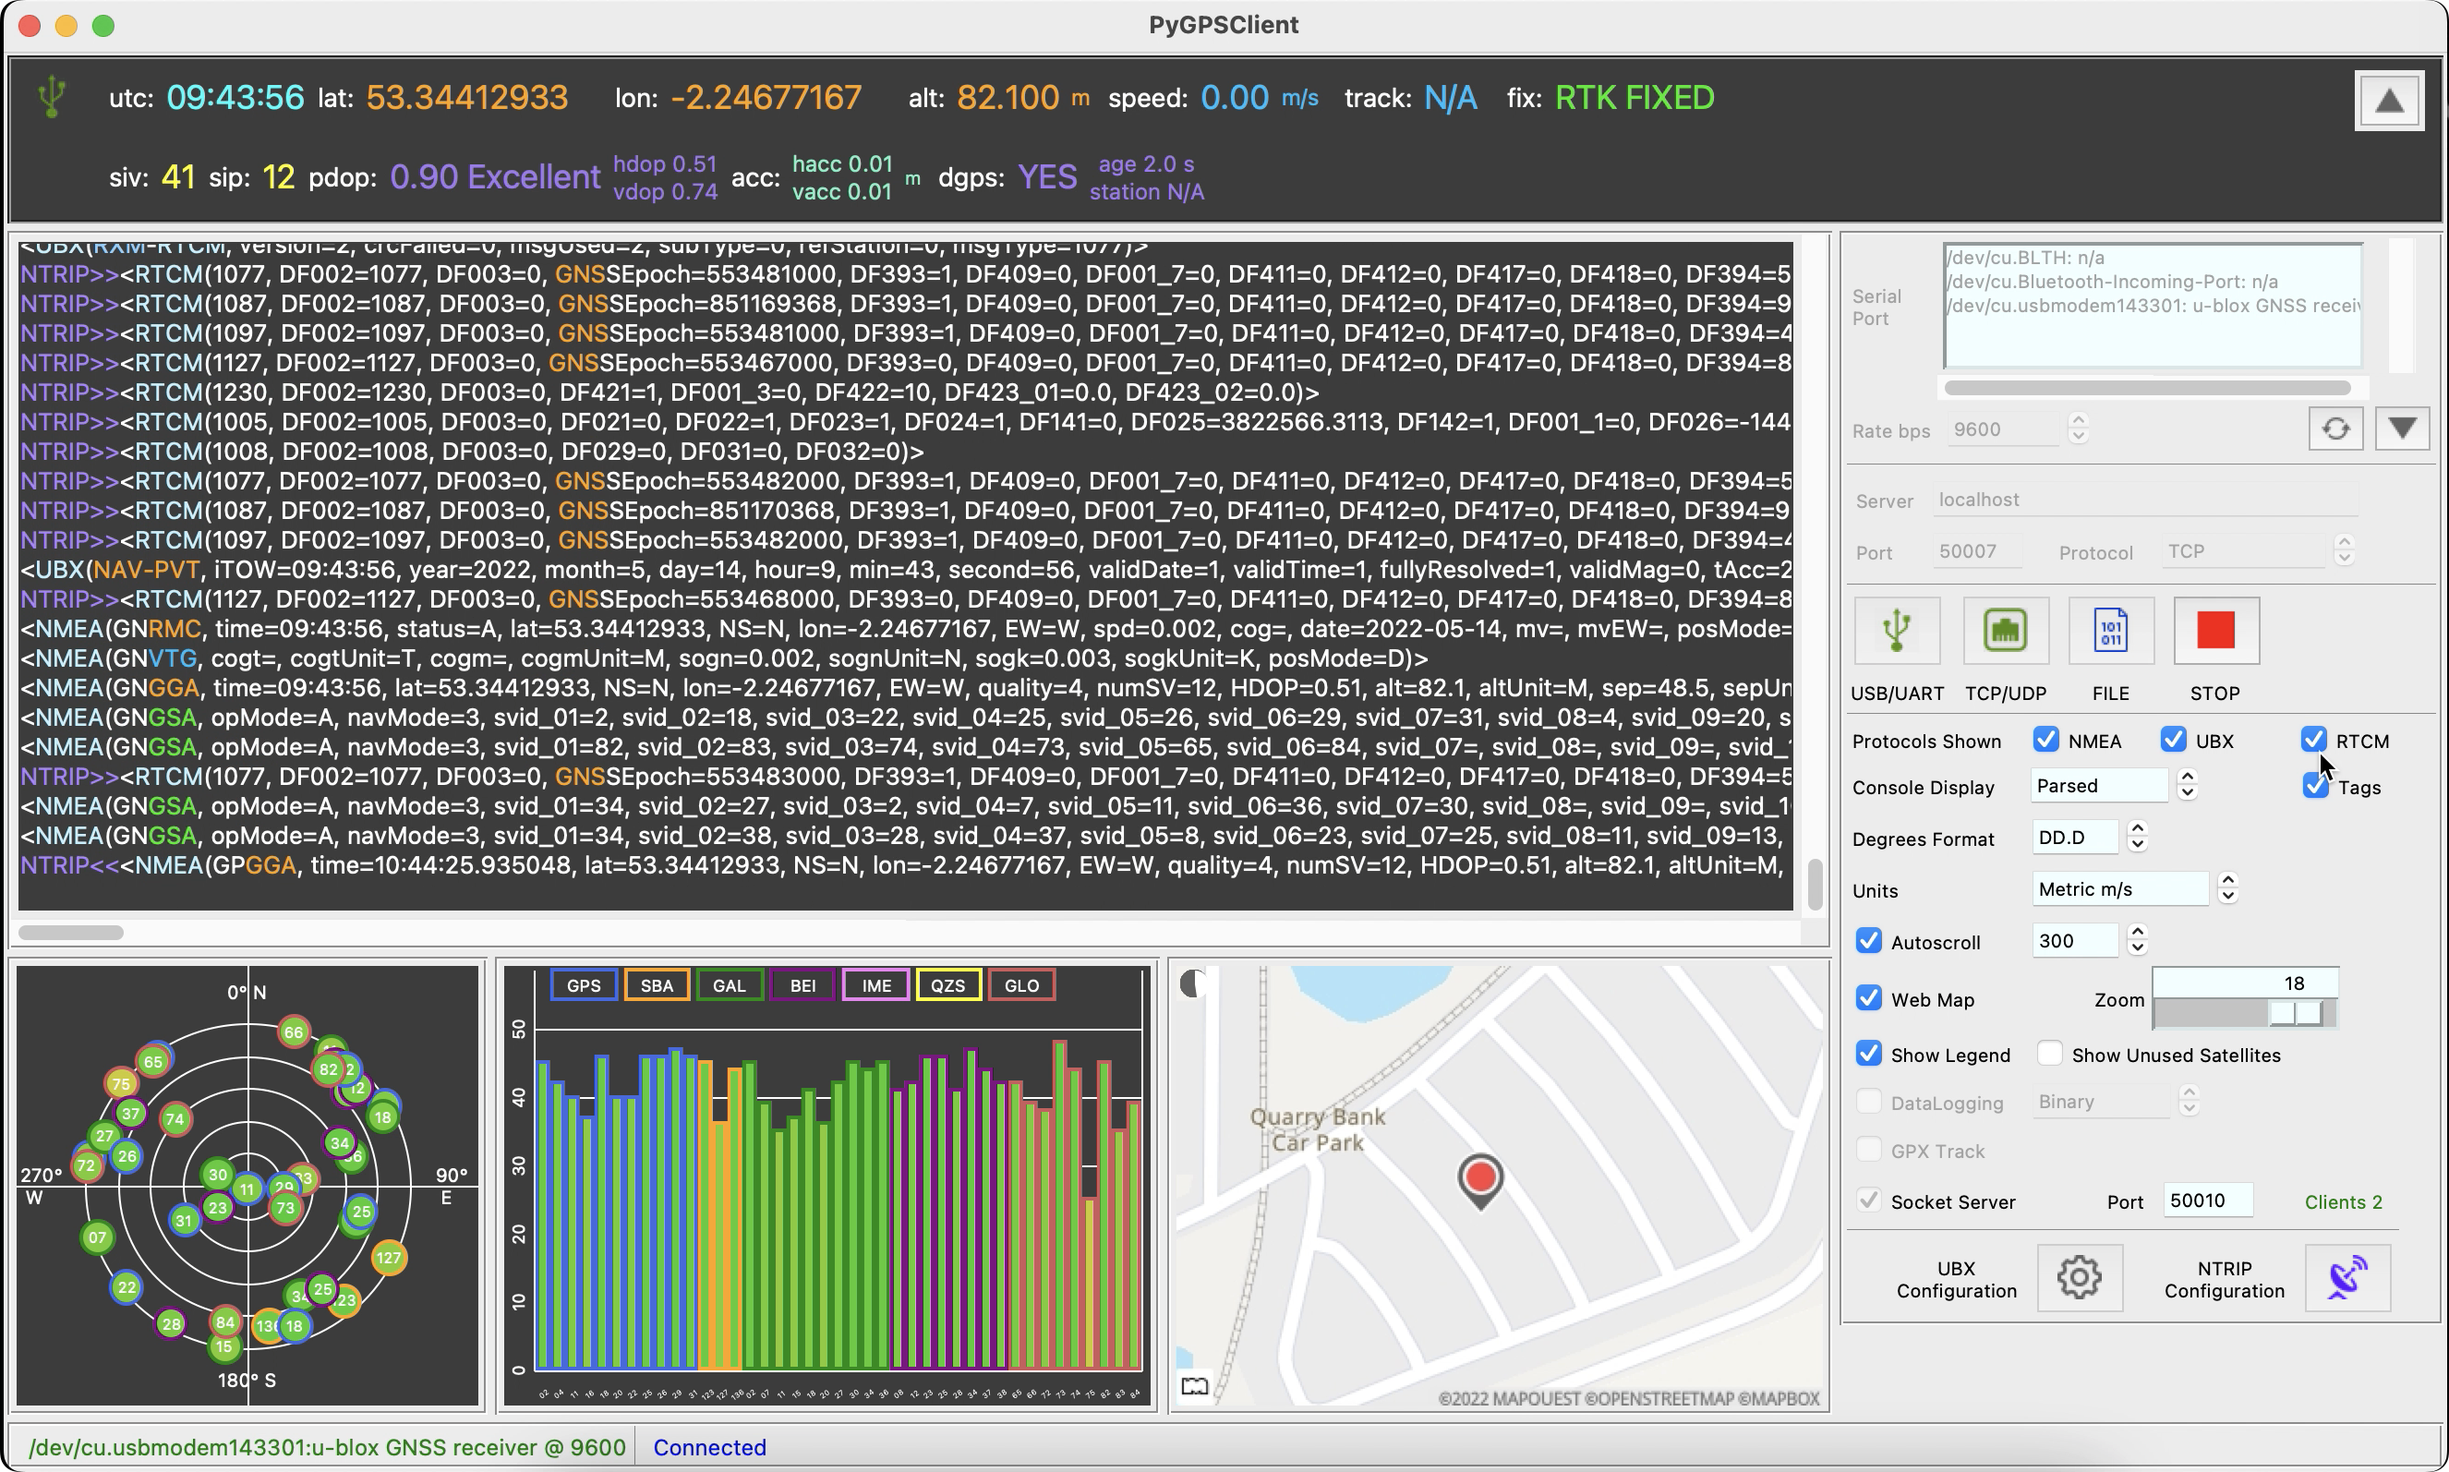
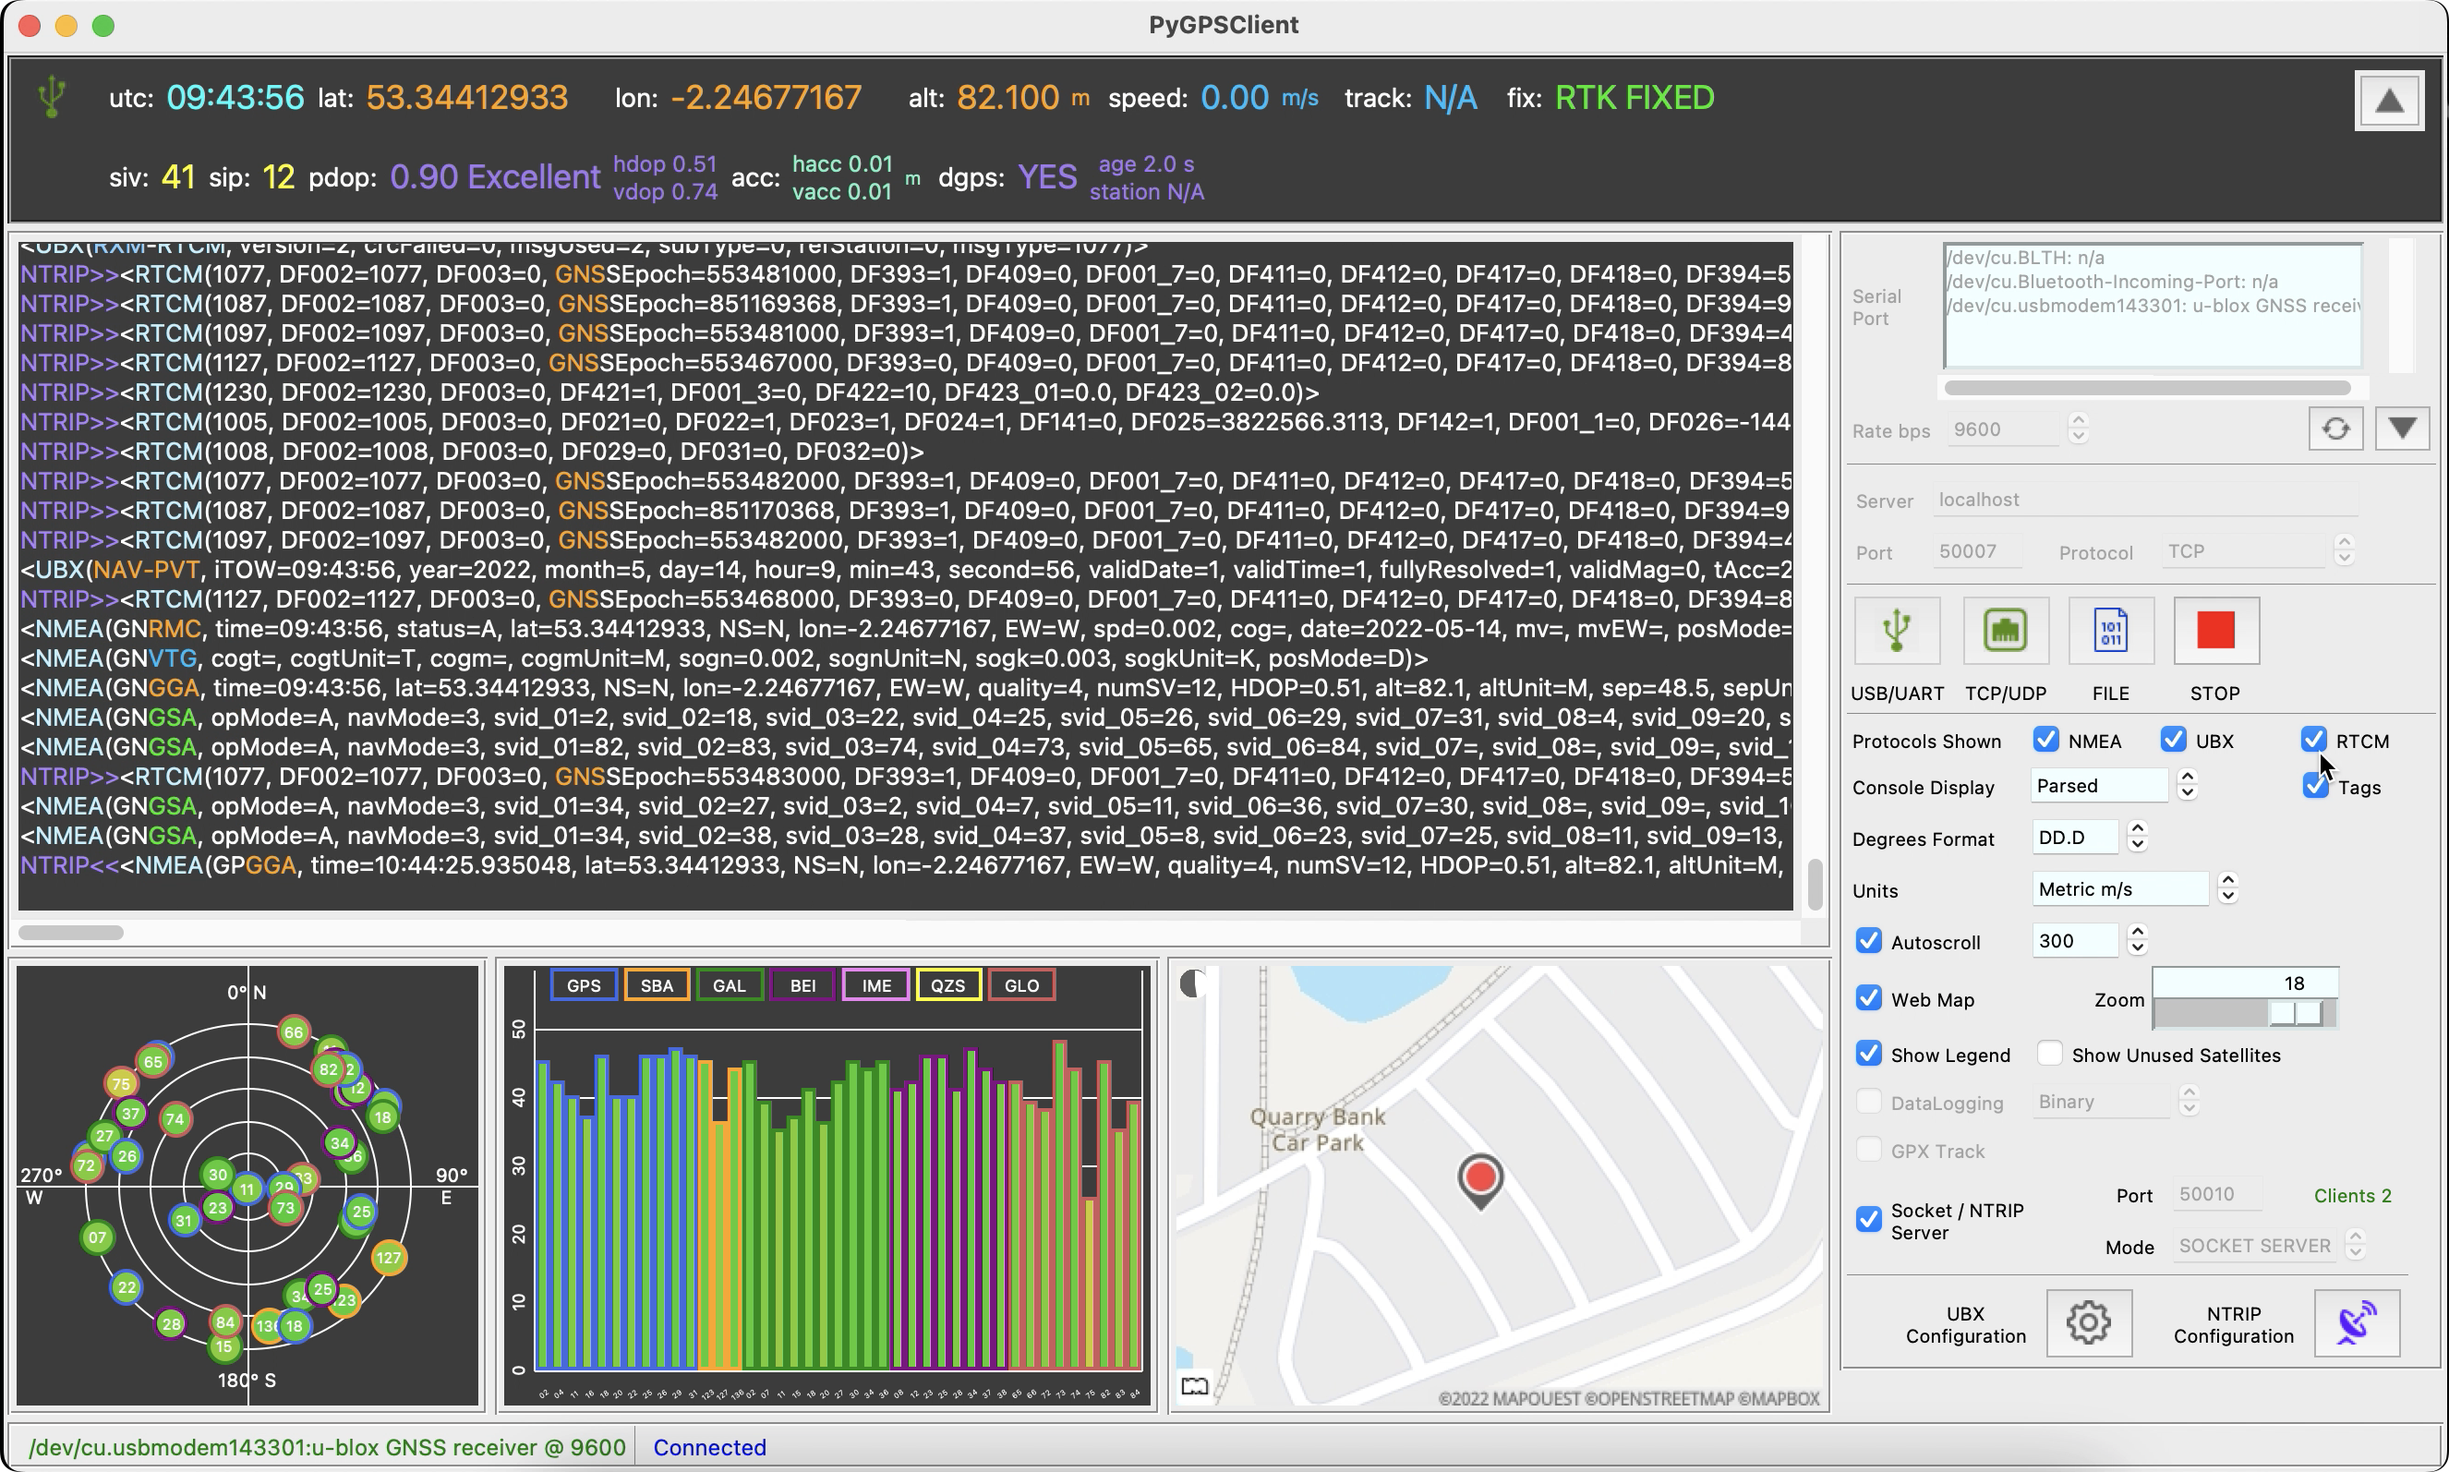
refine socket server

Changed region(s): [[0.7421, 0.7992, 0.9894, 0.9222]]

diff --git a/pygpsclient/socket_server.py b/pygpsclient/socket_server.py
@@ -17,7 +17,6 @@ Operates in two modes according to ntripmode setting:
 For NTRIP mode, set authorization credentials via env variables:
 export PYGPSCLIENT_USER="user"
 export PYGPSCLIENT_PASSWORD="password"
-
 Created on 16 May 2022
 
 :author: semuadmin
@@ -35,15 +34,6 @@ from pygpsclient import version as PYGPSVERSION
 
 RTCM = b"rtcm"
 BUFSIZE = 1024
-
-STRLIST = [
-    "STR;thismp;thismp;RTCM 3.2;1005(5),1077(1),1087(1),1097(1),1127(1),1230(1);0;GPS+GLO+GAL;SNIP;SRB;51.45;-2.10;1;0;sNTRIP;none;N;N;0;",
-    "STR;thatmp;thatmp;RTCM 3.2;1005(5),1075(1),1085(1),1095(1),1195(1),1230(1);0;GPS+GLO+GAL;SNIP;SRB;44.12;20.23;1;0;sNTRIP;none;N;N;0;",
-]
-STRTERM = (
-    "NET;SNIP;PyGPSClient;N;N;PyGPSClient;0.0.0.0:2101;semuadmin@semuconsulting.com;;\r\n"
-    + "ENDSOURCETABLE\r\n"
-)
 
 
 class SocketServer(ThreadingTCPServer):
@@ -75,6 +65,8 @@ class SocketServer(ThreadingTCPServer):
         self._stream_thread = None
         self._stopevent = Event()
         self.clientqueues = []
+        # get host port
+        self.hosturl = f"0.0.0.0:{self.__app.frm_settings.server_port}"
         # set up pool of client queues
         for _ in range(self._maxclients):
             self.clientqueues.append({"client": None, "queue": Queue()})
@@ -172,6 +164,17 @@ class SocketServer(ThreadingTCPServer):
         """
 
         return self._ntripmode
+
+    @property
+    def latlon(self) -> tuple:
+        """
+        Get current lat / lon from receiver.
+
+        :return=: tuple of (lat, lon)
+        :rtype: tuple
+        """
+
+        return (self.__app.gnss_status.lat, self.__app.gnss_status.lon)
 
 
 class ClientHandler(StreamRequestHandler):
@@ -289,7 +292,7 @@ class ClientHandler(StreamRequestHandler):
                 get = part.split(b" ")
                 if get[1] == b"":  # no mountpoint, hence sourcetable request
                     strreq = True
-                elif get[1] in (b"/thismp", b"/thatmp"):  # valid mountpoint
+                elif get[1] == b"/pygpsclient":  # valid mountpoint
                     validmp = True
 
         if not authorized:  # respond with 403
@@ -299,28 +302,40 @@ class ClientHandler(StreamRequestHandler):
                 + "Connection: close\r\n"
             )
             return bytes(http, "UTF-8")
-        if strreq or (not strreq and not validmp):  # respond with sourcetable
-            server_version = PYGPSVERSION
-            server_date = datetime.now(timezone.utc).strftime("%d %b %Y")
-            sourcetable = ""
-            for line in STRLIST:
-                sourcetable += line + "\r\n"
-            http = (
-                "HTTP/1.1 200 OK\r\n"
-                + "Ntrip-Version: Ntrip/2.0\r\n"
-                + "Ntrip-Flags: \r\n"
-                + f"Server: PyGPSClient_NTRIP_Caster_{server_version}/of:{server_date}\r\n"
-                + f"Date: {self.http_date()}\r\n"
-                + "Connection: close\r\n"
-                + "Content-Type: gnss/sourcetable\r\n"
-                + f"Content-Length: {len(sourcetable)}\r\n"
-                + sourcetable
-                + STRTERM
-            )
+        if strreq or (not strreq and not validmp):  # respond with nominal sourcetable
+            http = self._format_str_http()
             return bytes(http, "UTF-8")
         if validmp:  # respond by opening RTCM3 stream
             return RTCM
         return None
+
+    def _format_str_http(self) -> str:
+        """
+        Format nominal HTTP sourcetable response.
+
+        :return: HTTP sourcetable response string
+        :rtype: str
+        """
+        # pylint: disable=line-too-long
+
+        server_version = PYGPSVERSION
+        server_date = datetime.now(timezone.utc).strftime("%d %b %Y")
+        lat, lon = self.server.latlon
+        sourcetable = f"STR;pygpsclient;PyGPSClient;RTCM 3.3;1005(5),1077(1),1087(1),1097(1),1127(1),1230(1);0;GPS+GLO+GAL;SNIP;SRB;{lat};{lon};1;0;sNTRIP;none;N;N;0;\r\n"
+        http = (
+            "HTTP/1.1 200 OK\r\n"
+            + "Ntrip-Version: Ntrip/2.0\r\n"
+            + "Ntrip-Flags: \r\n"
+            + f"Server: PyGPSClient_NTRIP_Caster_{server_version}/of:{server_date}\r\n"
+            + f"Date: {self.http_date()}\r\n"
+            + "Connection: close\r\n"
+            + "Content-Type: gnss/sourcetable\r\n"
+            + f"Content-Length: {len(sourcetable)}\r\n"
+            + sourcetable
+            + f"NET;SNIP;PyGPSClient;N;N;PyGPSClient;{self.server.hosturl};info@semuconsulting.com;;\r\n"
+            + "ENDSOURCETABLE\r\n"
+        )
+        return http
 
     def _write_from_mq(self):
         """

diff --git a/README.md b/README.md
@@ -57,7 +57,7 @@ This is an independent project and we have no affiliation whatsoever with u-blox
 1. Track recording in GPX format.
 1. UBX Configuration Dialog, with the ability to send a variety of UBX configuration commands to u-blox GNSS devices. This includes the facility to add **user-defined commands or command sequences** - see instructions under [installation](#installation) below. While not intended to be a direct replacement, the application supports much of the UBX configuration functionality in u-blox's Windows-only [u-center &copy;](https://www.u-blox.com/en/product/u-center) tool.
 1. [NTRIP](https://en.wikipedia.org/wiki/Networked_Transport_of_RTCM_via_Internet_Protocol) Client ([differential GPS enhancement](https://en.wikipedia.org/wiki/Differential_GPS)) facility with the ability to connect to a specified NTRIP server (caster), parse the incoming RTCM3 data and feed this data to a compatible GNSS device (*requires an Internet connection and access to a suitable NTRIP caster*).
-1. **New BETA feature in v1.3.5** - socket server feature which outputs any connected raw (binary) GNSS data stream to a TCP socket, which can be accessed by any client capable of parsing raw GNSS data.
+1. **New BETA feature in v1.3.5** - Socket / NTRIP Server with two modes of operation: (a) open, unauthenticated Socket Server or (b) NTRIP Server.
 
 ---
 ## <a name="howtouse">How to Use</a>
@@ -85,7 +85,7 @@ This is an independent project and we have no affiliation whatsoever with u-blox
 * Show Unused Satellites - Include or exclude satellites that are not used in the navigation solution (e.g. because their signal level is too low) from the graph and sky view panels.
 * DataLogging - Turn Data logging in the selected format on or off. You will be prompted to select the directory into which timestamped log files are saved (NB. only binary datalogs can be re-read by `pygpsclient`'s parser).
 * GPX Track - Turn track recording (in GPX format) on or off. You will be prompted to select the directory into which timestamped track files are saved.
-* Socket Server (*only available when connected to a GNSS data stream*) - Turn socket server on or off. The socket server port defaults to 50010 but is configurable via the port setting. A label to the right indicates the number of connected clients, and the server status is indicated in the topmost banner: closed: ![transmit icon](/pygpsclient/resources/iconmonstr-notransmit-10-24.png), open with no clients: ![transmit icon](/pygpsclient/resources/iconmonstr-noclient-10-24.png), open with clients: ![transmit icon](/pygpsclient/resources/iconmonstr-transmit-10-24.png).
+* Socket / NTRIP Server (*only available when connected to a GNSS data stream*) - Turn Socket / NTRIP Server on or off. The socket server port defaults to 50010 but is configurable via the port setting. The operating mode can be selected from OPEN SERVER or NTRIP SERVER. A label to the right indicates the number of connected clients, and the server status is indicated in the topmost banner: closed: ![transmit icon](/pygpsclient/resources/iconmonstr-notransmit-10-24.png), open with no clients: ![transmit icon](/pygpsclient/resources/iconmonstr-noclient-10-24.png), open with clients: ![transmit icon](/pygpsclient/resources/iconmonstr-transmit-10-24.png).
 
 ---
 ### <a name="ubxconfig">UBX Configuration Facilities</a>

diff --git a/RELEASE_NOTES.md b/RELEASE_NOTES.md
@@ -4,8 +4,12 @@
 
 ENHANCEMENTS:
 
-1. **New BETA socket server feature**. Outputs the currently connected raw (binary) input stream to a designated TCP socket. The socket host address is `0.0.0.0` (i.e. binds to all available IP addresses on the host machine). The socket port defaults to `50010` but is configurable via the settings panel. Once enabled, the output socket stream can be accessed by any socket client capable of parsing raw GNSS data, including another instance of PyGPSClient or `gnssdump` (the CLI utility installed with `pyubx2`) running on another machine (*assuming the traffic is permitted through any firewalls*). The maximum number of clients is arbitrarily limited to 5. A label on the settings panel indicates the number of connected clients - this turns red when the maximum has been reached.
-2. The default configuration for the socket server is set in `globals.py` as `SOCKSERVER_HOST`, `SOCKSERVER_PORT` and `SOCKSERVER_MAX_CLIENTS`.
+1. **New BETA Socket / NTRIP Server feature**. Capable of operating in two modes - either (a) as an open, unauthenticated TCP socket server, or (b) as an authenticated NTRIP server.
+3. In open socket server mode, the output socket stream can be accessed by any TCP socket client capable of parsing raw GNSS data, including another instance of PyGPSClient or `gnssdump` (the CLI utility installed with `pyubx2`) running on another machine (*assuming the traffic is permitted through any firewalls*).
+4. In NTRIP server mode, the socket stream can be accessed by any authenticated NTRIP client. The sourcetable contains a single entry corresponding to the PyGPSClient host. The server authentication credentials are set via two environment variables `PYGPSCLIENT_USER` and `PYGPSCLIENT_PASSWORD`.
+5. In either mode, the maximum number of clients is arbitrarily limited to 5. A label on the settings panel indicates the number of connected clients - this turns red when the maximum has been reached.
+6. The socket host address is `0.0.0.0` (i.e. binds to all available IP addresses on the host machine). The socket port defaults to `50010` but is configurable via the settings panel (`2101` is the convention for NTRIP servers but is not mandated). 
+7. The default configuration for the socket server is set in `globals.py` as `SOCKSERVER_HOST`, `SOCKSERVER_PORT` and `SOCKSERVER_MAX_CLIENTS`.
 
 ### RELEASE v1.3.4
 
